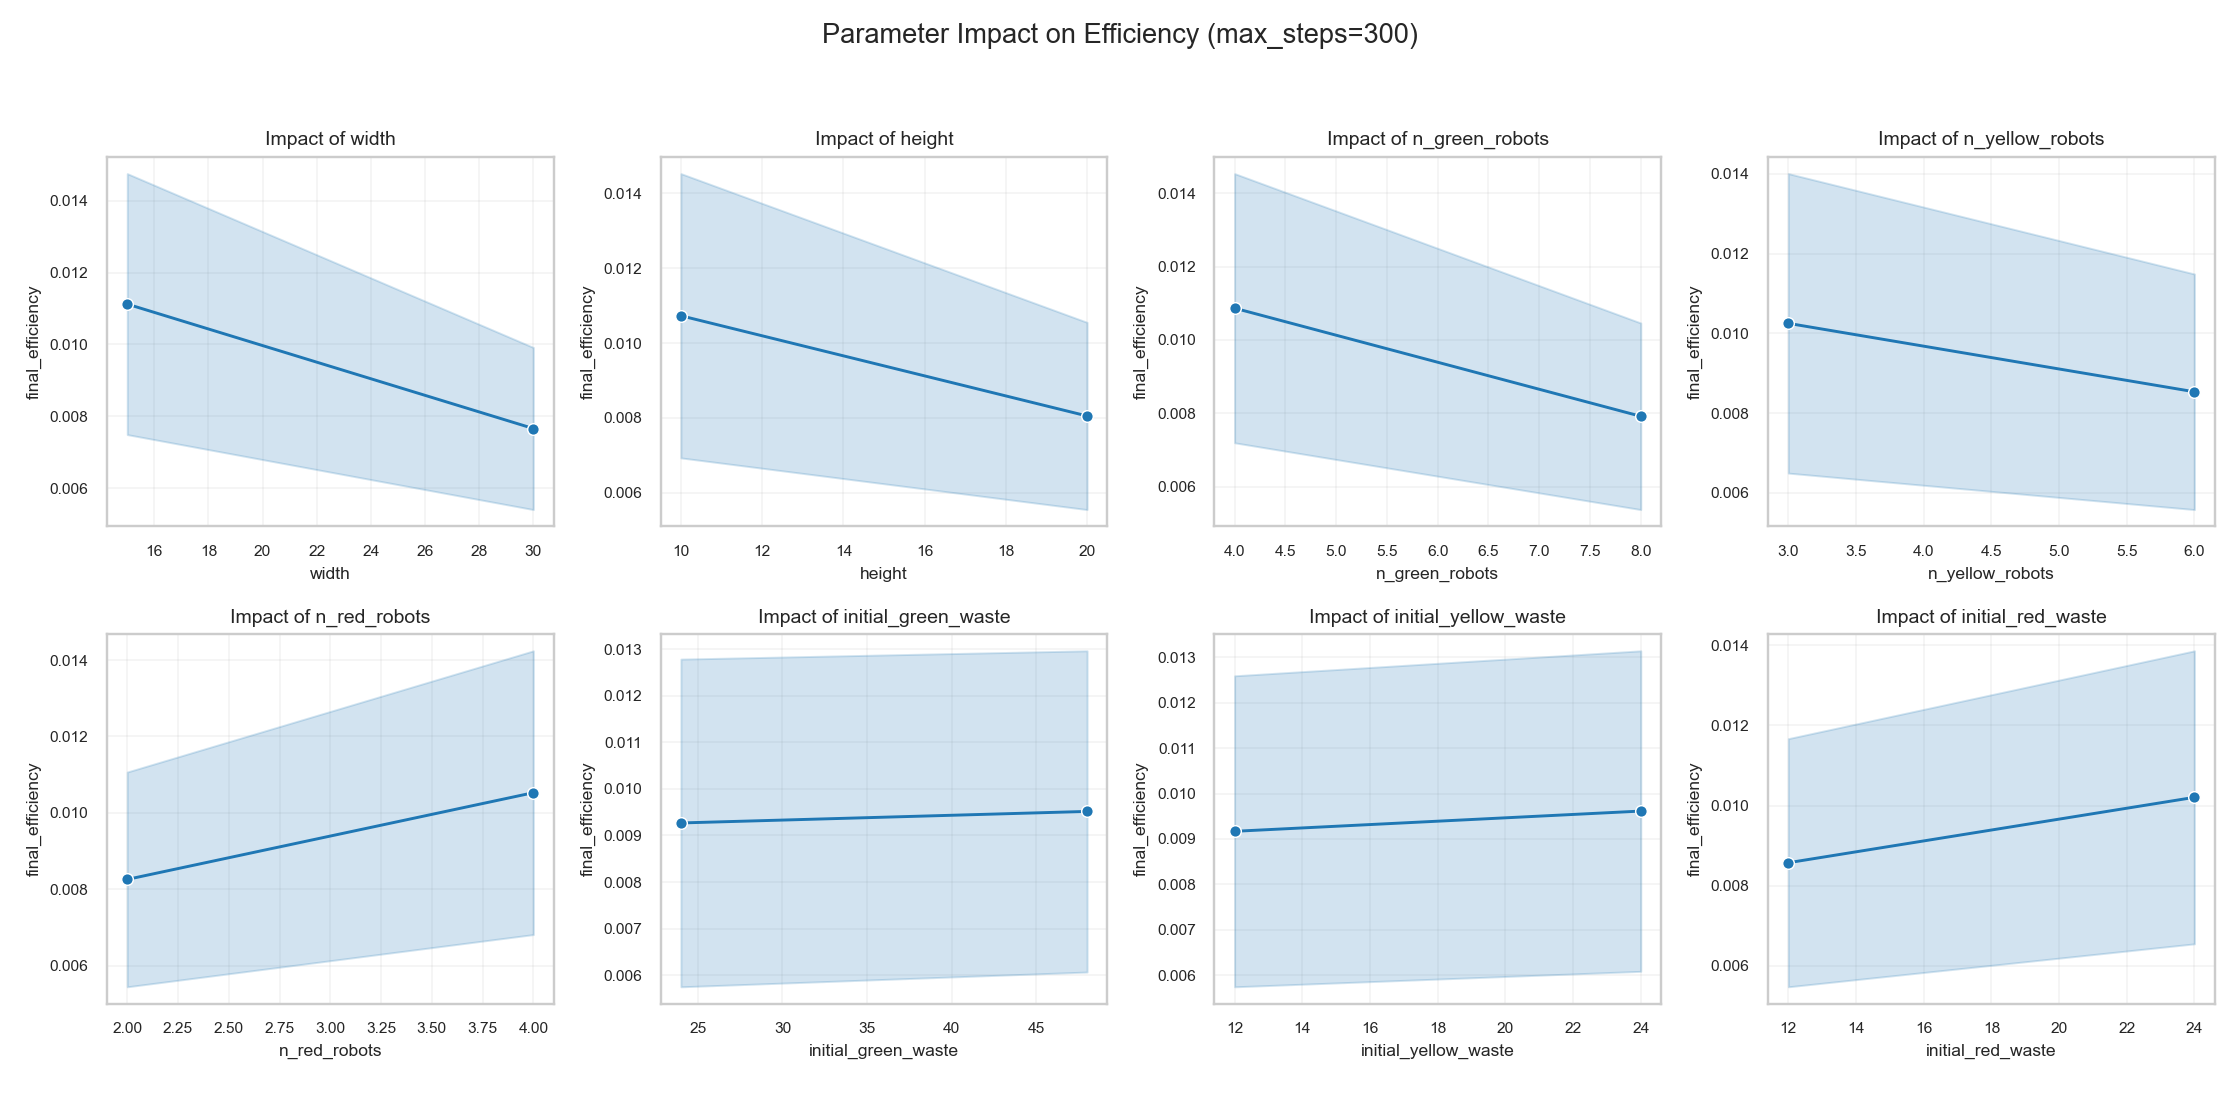
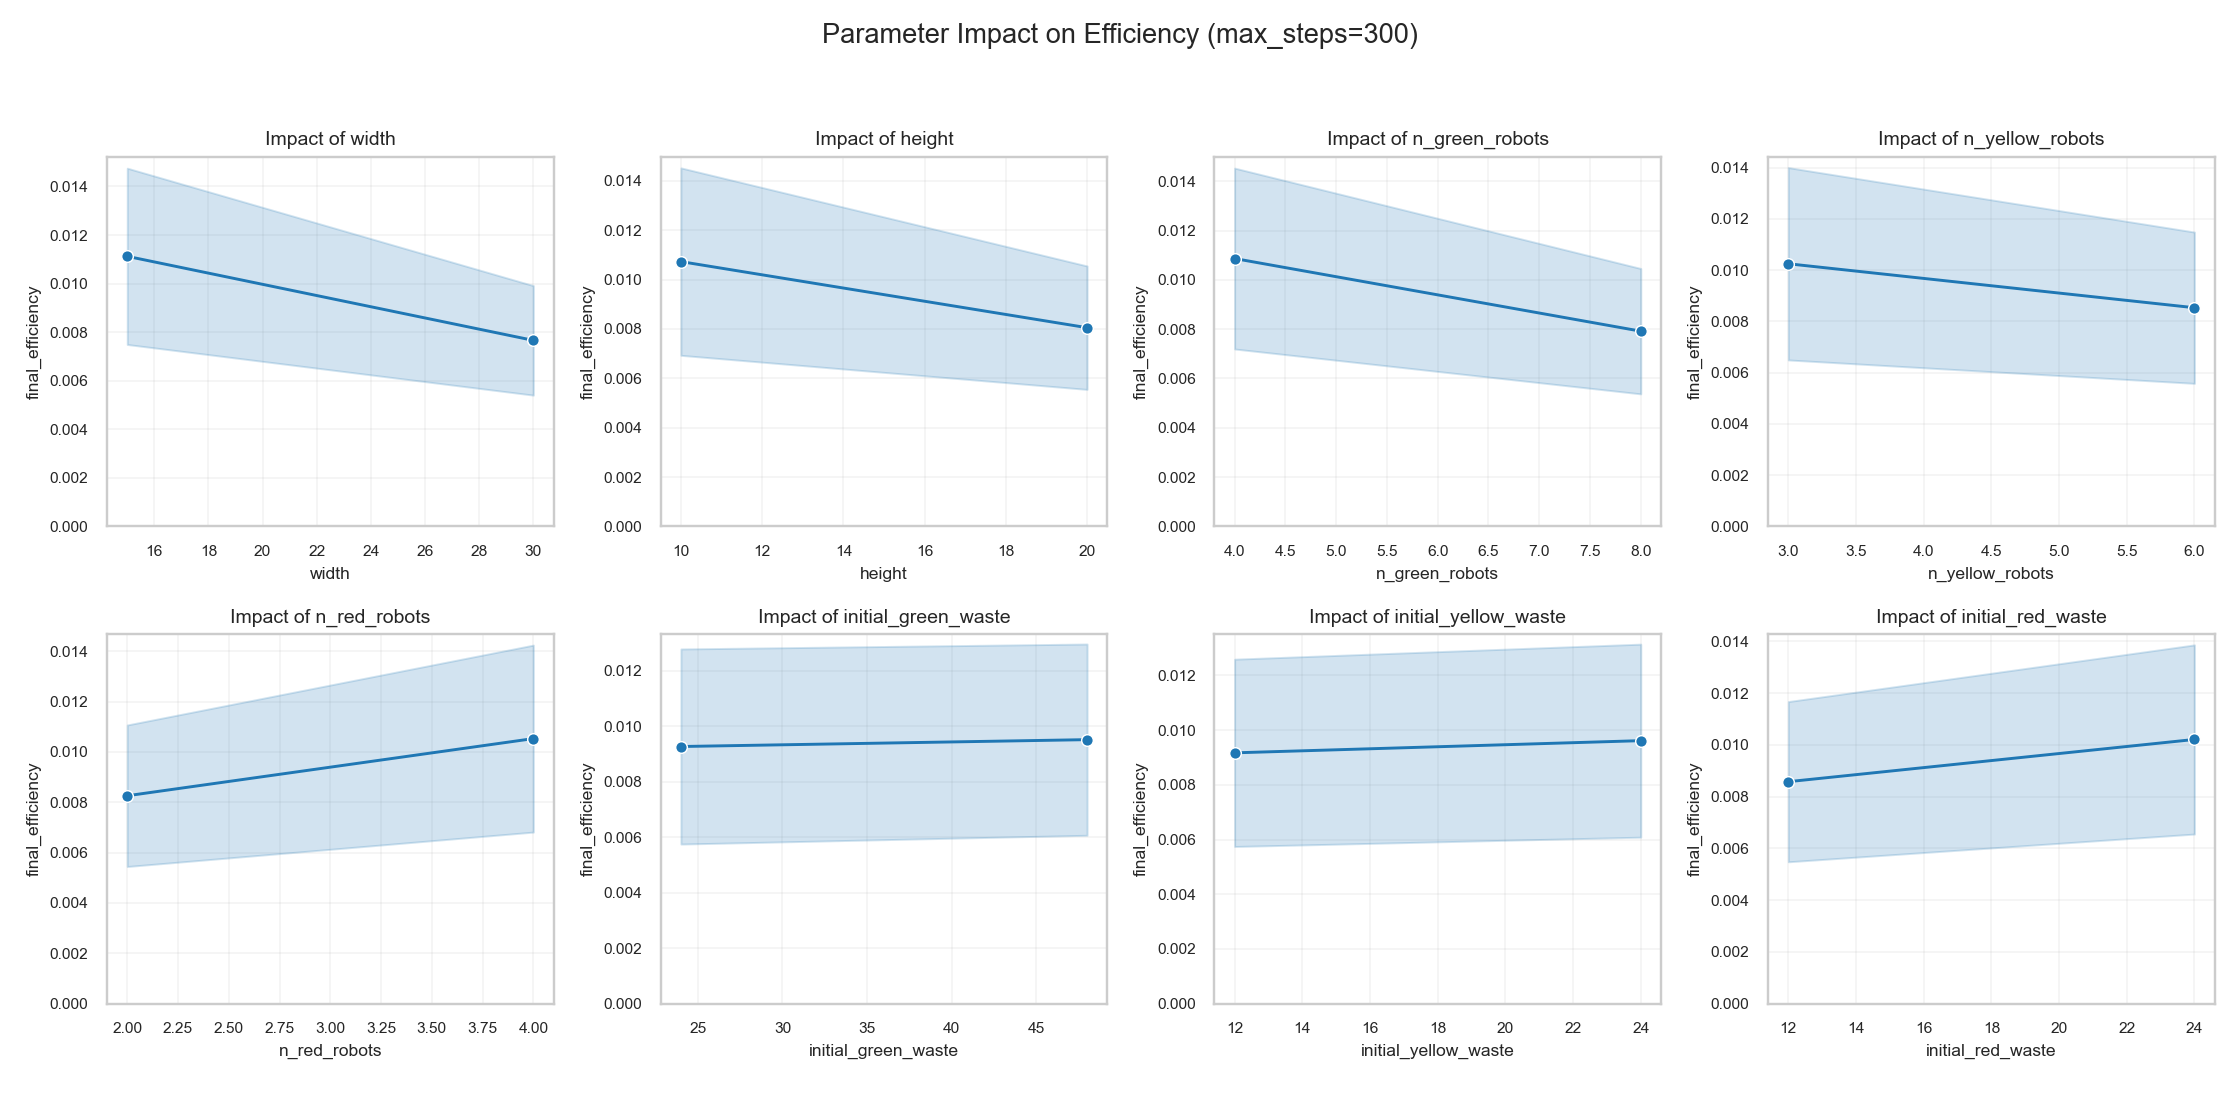
add final waste remaining and sucessful collection to viz

diff --git a/plot_benchmark.py b/plot_benchmark.py
@@ -76,12 +76,26 @@ def plot_parameter_impact(
 
         if metric_key == 'completed':
             ax.set_ylim(0, 1)
+        else:
+            ax.set_ylim(bottom=0)
 
     fig.suptitle(title, fontsize=14)
     fig.tight_layout(rect=[0, 0.03, 1, 0.95])
     fig.savefig(output_path, dpi=dpi)
     plt.close(fig)
 
+def plot_proportion_sucessfull_runs(df: pd.DataFrame, output_dir: Path, dpi: int):
+
+    fig, ax = plt.subplots()
+    labels = ['all waste collected', 'not all waste collected']
+    values = [(df['completed'] == 1).sum(), (df['completed'] == 0).sum()]
+    ax.pie(values, labels=labels, autopct='%1.1f%%', startangle=90)
+    ax.set_title("Proportion of successful collection of all waste", fontsize=10)
+    fig.savefig(output_dir / "proportion_successful_collection.png", dpi=dpi)
+    plt.close(fig)
+    
+    
+    
 
 def run_all_plots(df: pd.DataFrame, output_dir: Path, dpi: int, suffix: str):
     output_dir.mkdir(parents=True, exist_ok=True)
@@ -105,6 +119,18 @@ def run_all_plots(df: pd.DataFrame, output_dir: Path, dpi: int, suffix: str):
         output_path=output_dir / "impact_efficiency.png",
         dpi=dpi,
     )
+
+    plot_parameter_impact(
+        df,
+        metric_key="final_remaining_waste",
+        title=f"Parameter Impact on Remaining Waste{suffix}",
+        ylabel="final_remaining_waste",
+        output_path=output_dir / "impact_remaining_waste.png",
+        dpi=dpi,
+    )
+
+    plot_proportion_sucessfull_runs(df, output_dir, dpi)
+
 
 
 def main():
